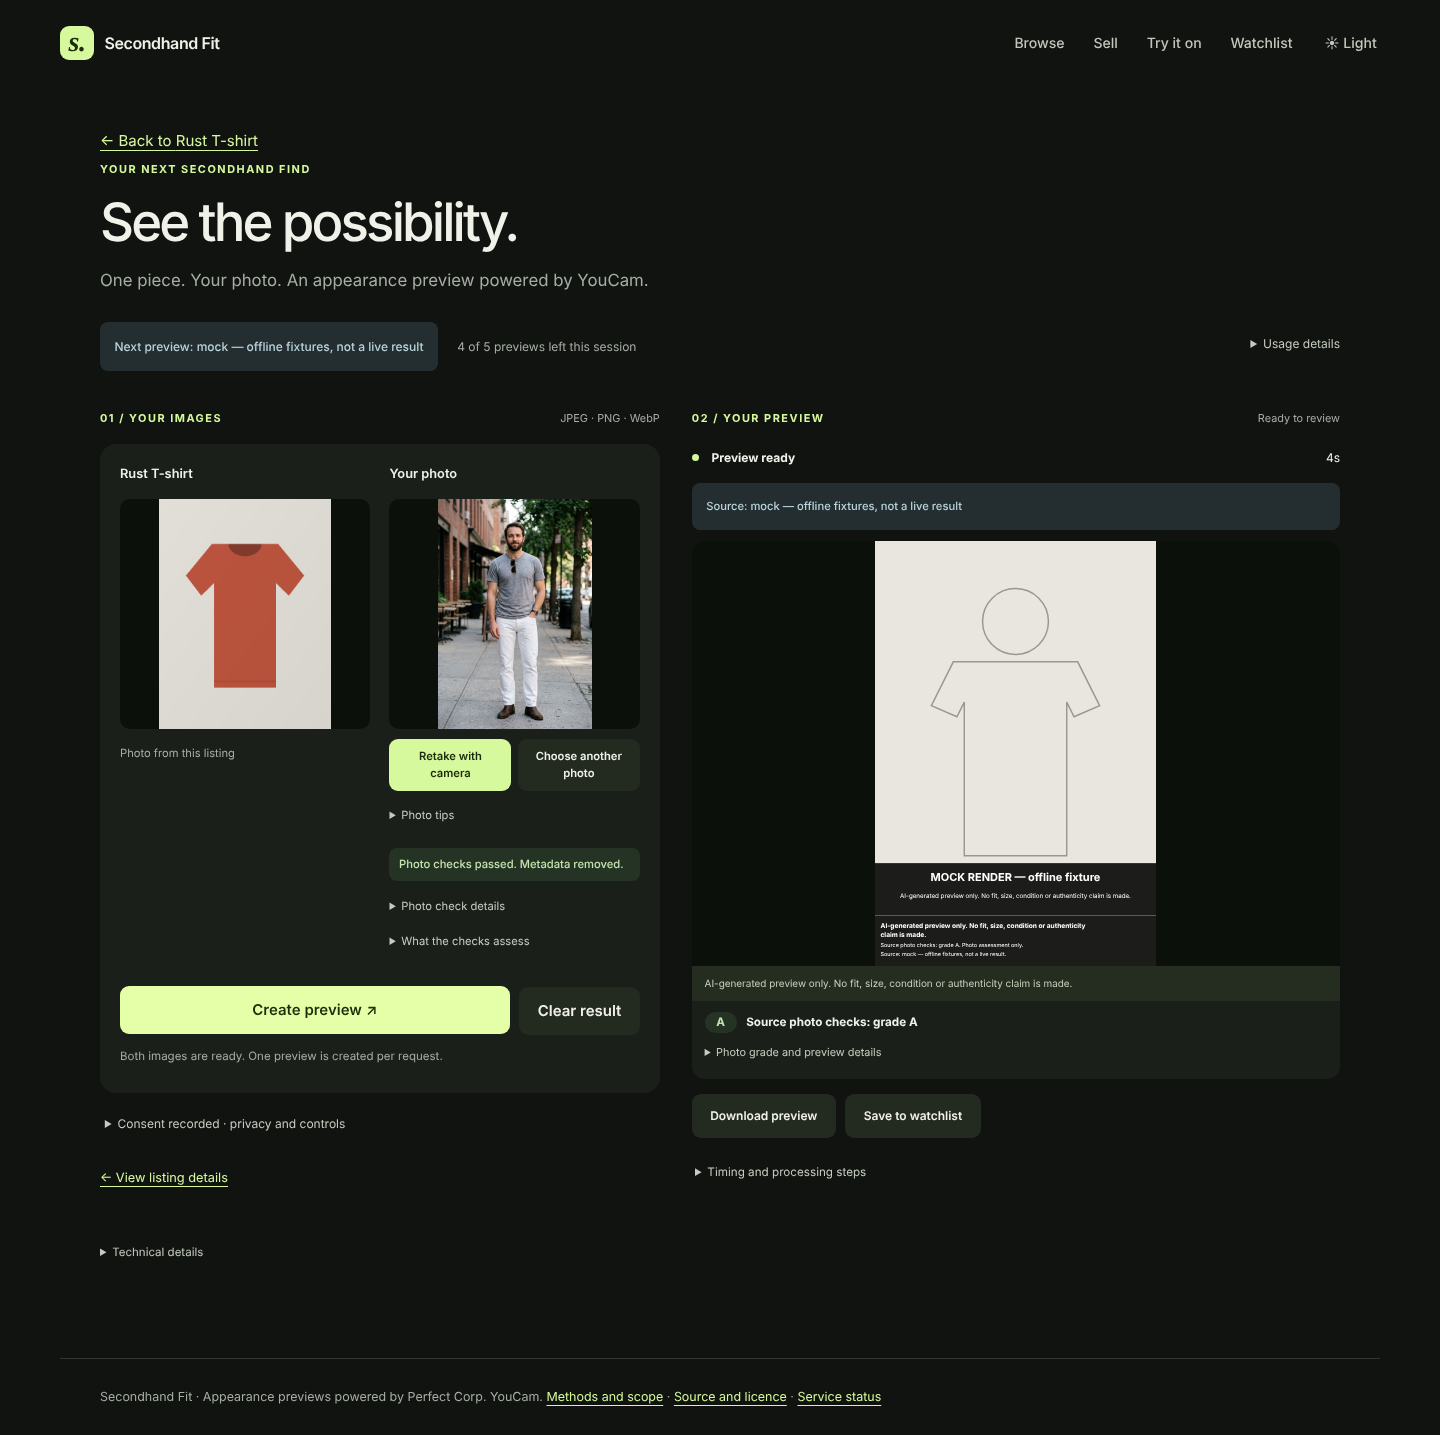
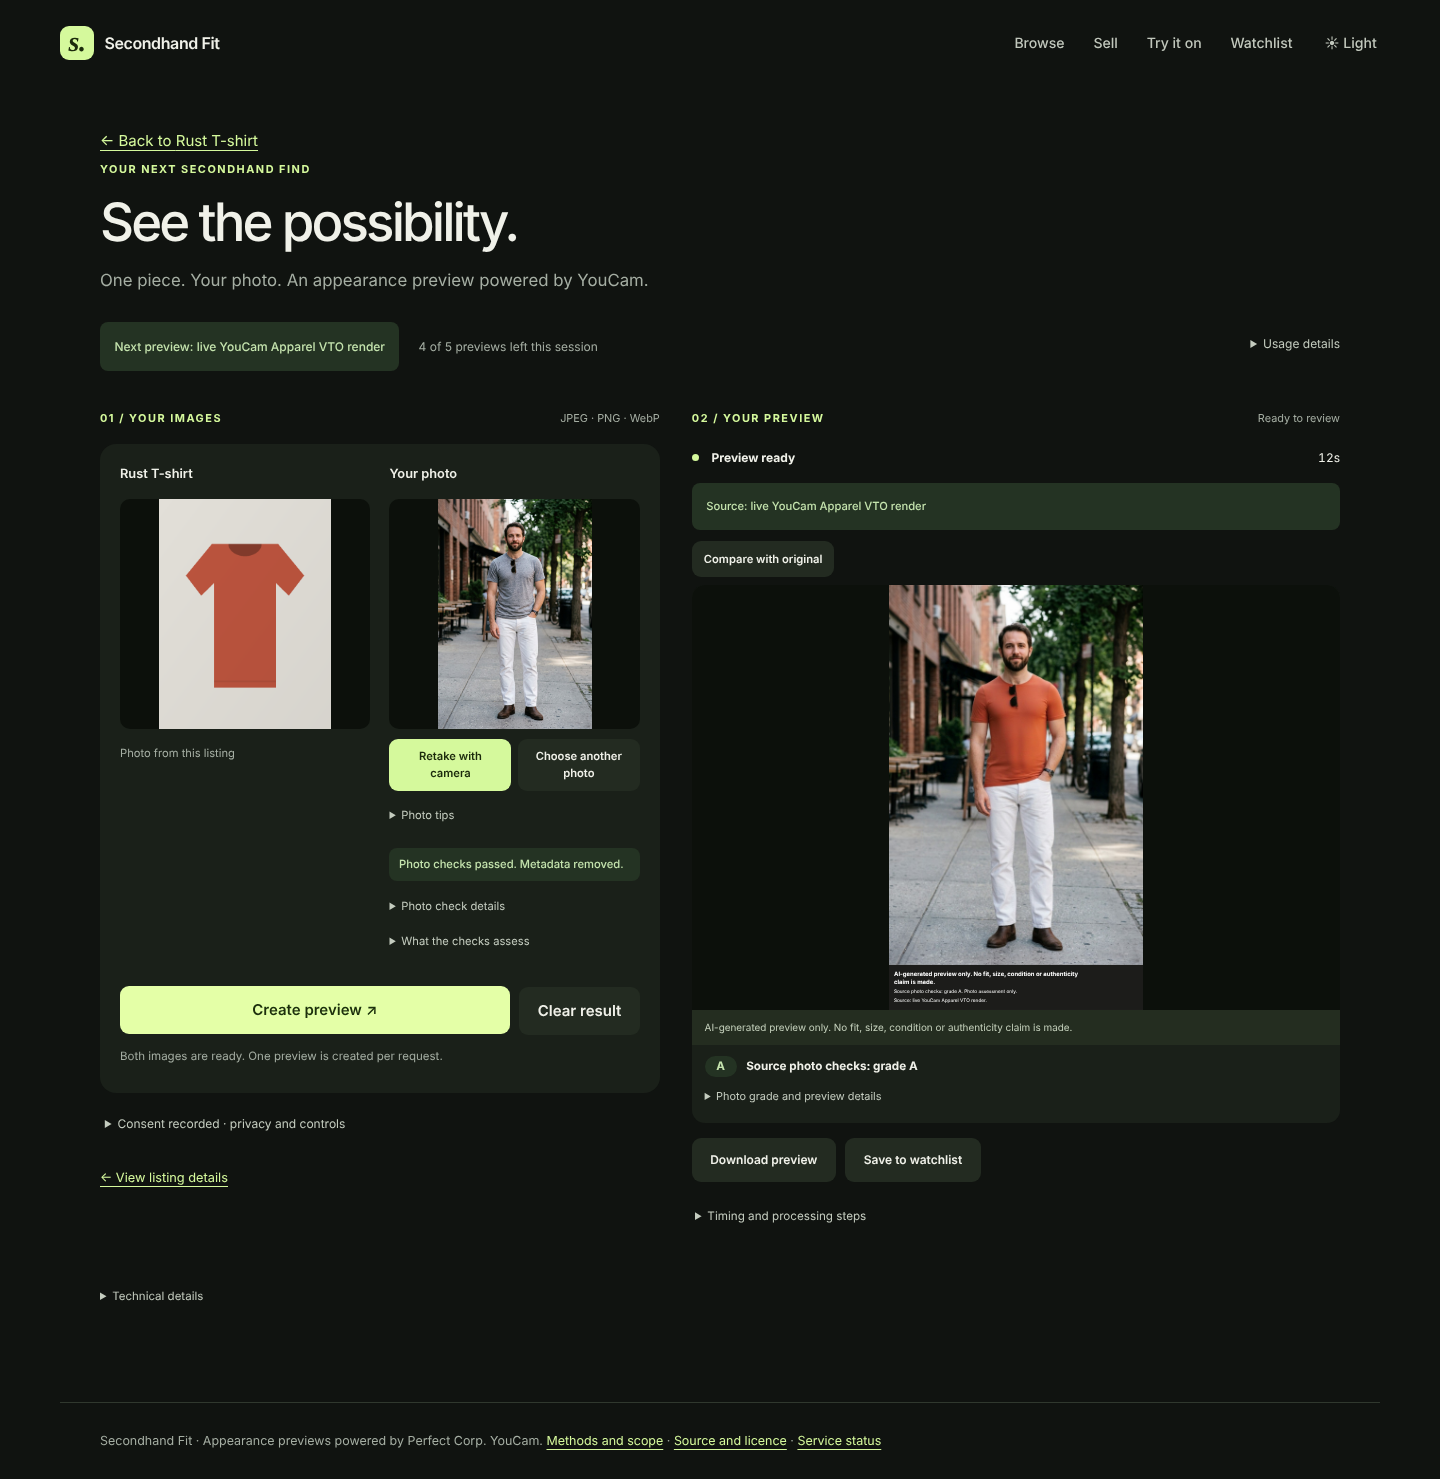
Record first live YouCam render; live screenshots and demo URL
Claude-Session: https://claude.ai/code/session_01UVJjXBqwGnhvVfMZqiCm6Q

diff --git a/lib/youcam/adapter.ts b/lib/youcam/adapter.ts
@@ -130,7 +130,7 @@ export const YOUCAM_PINNED = {
   /** Version tag included in the render cache key when caching lands (P1). */
   modelParamVersion: "apparel-vto/v2.0/cloth/2026-10-01",
   verification: {
-    liveRenderConfirmed: false,
+    liveRenderConfirmed: true, // First live render from the deployed app: 2026-10-31.
     note:
       "V2 endpoint paths, Bearer auth, task body fields, the category enum, the error codes and the input limits are taken from the YouCam API documentation and must be confirmed by a live render before the demo. The feature-cost response shape and the placement of error_code inside a failed task's data are not documented in the summary used here and are read defensively.",
   },

diff --git a/docs/devpost/README.md b/docs/devpost/README.md
@@ -30,10 +30,10 @@ on **Nov 1** to leave a margin. Nothing can be changed after the period ends.
 | Project name | `Secondhand Fit` | Ready |
 | Elevator pitch | [`description.md`](description.md#elevator-pitch) | Ready |
 | Description | [`description.md`](description.md#about-the-project) | Ready |
-| YouCam API used | Perfect Corp. YouCam API — Apparel Virtual Try-On | Ready; confirm one live render on the deployed app |
+| YouCam API used | Perfect Corp. YouCam API — Apparel Virtual Try-On | Ready; live render confirmed on the deployed app |
 | Built with | [`description.md`](description.md#built-with) | Ready (confirm the host name) |
-| Screenshots | `screenshots/` | Captured; replace `07` and `08` with a live render after deploying |
-| Working demo URL | NOT SET | Deploy with `render.yaml` (root `README.md`, "Deploying the demo") |
+| Screenshots | `screenshots/` | Ready; `07`, `08` and `10` are from the live deployed app |
+| Working demo URL | https://secondhand-fit.onrender.com | Deployed on Render; live render confirmed 2026-10-31 |
 | Code repository URL | https://github.com/mjcole76/secondhand-fit | Pushed; **must be made public** (or shared with contact_event@PerfectCorp.com) |
 | Demo video URL | NOT SET | Record from [`video-script.md`](video-script.md), upload as Public |
 | Testing instructions | [`testing-instructions.md`](testing-instructions.md) | Ready; fill in the demo URL |
@@ -44,7 +44,7 @@ on **Nov 1** to leave a margin. Nothing can be changed after the period ends.
 
 | Item | URL |
 |---|---|
-| Working demo | NOT SET |
+| Working demo | https://secondhand-fit.onrender.com |
 | Code repository | https://github.com/mjcole76/secondhand-fit |
 | Demo video | NOT SET |
 

diff --git a/docs/devpost/screenshots.md b/docs/devpost/screenshots.md
@@ -1,6 +1,7 @@
 # Devpost screenshots
 
 Captured on 2026-10-28 from a production build (`npm run build && npm start`) in offline mock mode,
+except the three live shots noted below,
 at 1440 px wide (desktop) and 390 px wide (phone). The files are in `screenshots/`. Upload them in
 this order. Check the image limits shown on the Devpost form first.
 
@@ -20,12 +21,12 @@ this order. Check the image limits shown on the Devpost form first.
 | 11 | `11-mobile-retake.png` | Phone: the retake instructions on the seller page |
 | 12 | `12-mobile-listing.png` | Phone: a graded listing |
 
-## Replace two shots after deploying
+## Live render
 
-`07-progress.png` and `08-render-labelled.png` show the **mock** placeholder (clearly labelled "MOCK
-RENDER — offline fixture"). After the first live render on the deployed app, capture both again so
-they show a live YouCam result under "Source: live YouCam Apparel VTO render". Use a photo of
-yourself or of someone who has agreed to it, and add it to the asset register in `PROVENANCE.md`.
+`07-progress.png`, `08-render-labelled.png` and `10-status.png` were captured on 2026-10-31 from the
+deployed app (https://secondhand-fit.onrender.com) in live mode: the preview is a real YouCam Apparel
+VTO render, shown under "Source: live YouCam Apparel VTO render". The other shots were captured
+locally in mock mode and show the same screens.
 
 The person in `00-home.png`, `07-progress.png` and `08-render-labelled.png` is the creator-supplied,
 Gemini-generated demonstration image `public/demo/person.jpg` (see `PROVENANCE.md`). No real person

diff --git a/docs/devpost/description.md b/docs/devpost/description.md
@@ -1,8 +1,8 @@
 # Devpost description
 
 Paste-ready text for the Devpost project form. Every statement below describes code that is in this
-repository and was checked against the running app on 2026-10-28. Before pasting, confirm the one
-item marked **CHECK** against the deployed app.
+repository and was checked against the running app, including a live render on the deployed app
+(https://secondhand-fit.onrender.com) on 2026-10-31.
 
 ## Project name
 
@@ -149,7 +149,3 @@ not to call it, and being clear about what comes back.
 - An embeddable try-on button or listing import for existing resale marketplaces.
 - Garment categories beyond the upper body.
 
----
-
-**CHECK before pasting:** "Render" in *Built with* assumes the app was deployed with `render.yaml`.
-Replace it with the host actually used.

diff --git a/docs/devpost/testing-instructions.md b/docs/devpost/testing-instructions.md
@@ -5,7 +5,7 @@ through the steps once on the deployed URL in a private browser window.
 
 ## Access
 
-- Working demo: NOT SET
+- Working demo: https://secondhand-fit.onrender.com
 - Code repository: https://github.com/mjcole76/secondhand-fit
 - No account, login or payment is needed. Nothing has to be installed.
 - The demo may take up to a minute to wake on the first visit.
